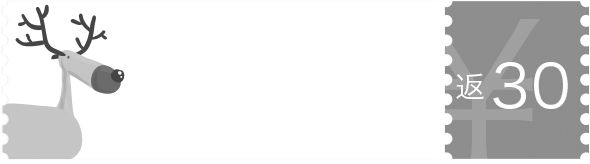
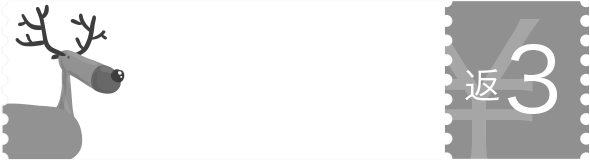
[restpro][coupon] xlmm coupon rmb200 then present 2 coupon of value is 50rmb

Changed region(s): [[0.0, 0.3049, 0.1831, 0.9756], [0.7627, 0.2439, 0.9763, 0.7012]]

diff --git a/shopmanager/flashsale/restpro/static/wap/js/tmyhquse.js b/shopmanager/flashsale/restpro/static/wap/js/tmyhquse.js
@@ -36,41 +36,50 @@ function Coupon_Nums_Show(nums) {
             location.href = "./choose-coupon.html";
         });
     }
-    else if (nums == 0) {// 没有优惠券　　点击　领取优惠券
-        $("#coupon_nums").text("可用优惠券（" + nums + "）");
+    // 用户创建自己的优惠券　　满三十　即可达到创建条件　关闭本功能　
+    //else if (nums == 0) {// 没有优惠券　　点击　领取优惠券
+    //    $("#coupon_nums").text("可用优惠券（" + nums + "）");
+    //    $("#coupon_value").text("点击领取");
+    //    $("#coupon_value").click(function () {
+    //        //　或者这里直接生成创建优惠券
+    //        //　判断页面的订单价格生成　对应的　优惠券　类型　价值
+    //        var coupon_type = 1;// 优惠券类型 这里可以根据页面　数据判断生成那种类型的优惠券
+    //        var requestUrl = GLConfig.baseApiUrl + GLConfig.create_user_pay_coupon; // 用户在支付页面创建自己的优惠券
+    //        //　１:满３０　减3  2:满３００减３０  3: 待定
+    //        var total_money = parseFloat($("#total_money").html().split(">")[2]);
+    //        if (total_money >= 30) {
+    //            console.log(total_money);
+    //
+    //            $.ajax({
+    //                type: 'post',
+    //                url: requestUrl,
+    //                data: {'csrfmiddlewaretoken': csrftoken, 'coupon_type': coupon_type},
+    //                dataType: 'json',
+    //                success: requestCallBack
+    //            });
+    //            function requestCallBack(res) {
+    //                console.log(res);
+    //                if(res[0]=='ok'){
+    //                location.href = "./choose-coupon.html";
+    //                }
+    //                else{
+    //                    console.log("用户创建优惠券失败！！！");
+    //                }
+    //            }
+    //        }
+    //        else{
+    //            drawToast("您的订单不满３０元哦~");
+    //        }
+    //    });
+    //}
+    else if (nums == 0) {
+        $("#coupon_nums").text("可用优惠券（" + 0 + "）");
         $("#coupon_value").text("点击领取");
         $("#coupon_value").click(function () {
-            //　或者这里直接生成创建优惠券
-            //　判断页面的订单价格生成　对应的　优惠券　类型　价值
-            var coupon_type = 1;// 优惠券类型 这里可以根据页面　数据判断生成那种类型的优惠券
-            var requestUrl = GLConfig.baseApiUrl + GLConfig.create_user_pay_coupon; // 用户在支付页面创建自己的优惠券
-            //　１:满３０　减3  2:满３００减３０  3: 待定
-            var total_money = parseFloat($("#total_money").html().split(">")[2]);
-            if (total_money >= 30) {
-                console.log(total_money);
-
-                $.ajax({
-                    type: 'post',
-                    url: requestUrl,
-                    data: {'csrfmiddlewaretoken': csrftoken, 'coupon_type': coupon_type},
-                    dataType: 'json',
-                    success: requestCallBack
-                });
-                function requestCallBack(res) {
-                    console.log(res);
-                    if(res[0]=='ok'){
-                    location.href = "./choose-coupon.html";
-                    }
-                    else{
-                        console.log("用户创建优惠券失败！！！");
-                    }
-                }
-            }
-            else{
-                drawToast("您的订单不满３０元哦~");
-            }
+            location.href = "./youhuiquan-kong.html"; //跳转到优惠券空页面
         });
     }
+
     else if(nums==-1){
         $("#coupon_nums").text("可用优惠券（" + 0 + "）");
         $("#coupon_value").text("点击领取");
@@ -118,6 +127,15 @@ function get_Coupon_On_Choose() {
                         var yhq_tree2 = Create_coupon_dom(yhq_obj);
                         $('.coupons').append(yhq_tree2);
                     }
+                    if (coupon_value == 50 && coupon_status == 3) {
+                        //满300返30
+                        yhq_obj.type = 5;
+                        yhq_obj.full = 300;
+                        yhq_obj.fan = 30;
+                        var yhq_tree3 = Create_coupon_dom(yhq_obj);
+                        $('.coupons').append(yhq_tree3);
+                    }
+
                     if(nums==0){
                         pop_info();
                     }
@@ -132,7 +150,12 @@ function get_Coupon_On_Choose() {
 }
 
 function Create_coupon_dom(obj) {
-    var html = $("#coupon-template").html();
+    if(obj.type==5){
+        var html = $("#coupon_template_xlmm_coupon").html();
+    }
+    else{
+        var html = $("#coupon-template").html();
+    }
     return hereDoc(html).template(obj)
 }
 
@@ -191,7 +214,13 @@ function get_Coupon_Value_Show_In_Buy() {
                     console.log("coupon value end :", val.coupon_value);
                     //将显示出来的数值填充到页面中
                     var coupon_value = val.coupon_value;
-                    $("#coupon_value").text("￥-" + coupon_value);
+                    var total_money = parseFloat($("#total_money").html().split(">")[2]);
+                    if (total_money >= 50 && val.coupon_type == 4) {// 大于50才能使用 并且优惠券类型是4
+                        $("#coupon_value").text("￥-" + coupon_value);
+                    }
+                    else if(total_money < 50 && val.coupon_type == 4){
+                        drawToast("商品金额小于50，优惠券不可用哦~");
+                    }
                 }
             });
         }

diff --git a/shopmanager/flashsale/restpro/static/wap/js/tmyhq.js b/shopmanager/flashsale/restpro/static/wap/js/tmyhq.js
@@ -8,14 +8,27 @@ function create_yhq_dom(obj) {
     var deadline= obj.deadline.split(' ');
     obj.deadline = deadline[0];
 
-    function yhq_dom() {
+    function yhq_dom56() {
         /*
          <li class="type{{ type }}">
-         <p class="name">全场任意商品满{{ full }}返{{ fan }}</p>
+         <p class="name">{{ full }}  </p>
          <p class="date">{{ created }} － {{ deadline }}</p>
          </li>
          */
     };
+    if (obj.type == 5 || obj.type == 6) {
+        return hereDoc(yhq_dom56).template(obj)
+    }
+    else {
+        function yhq_dom() {
+            /*
+             <li class="type{{ type }}">
+             <p class="name">全场任意商品满{{ full }}返{{ fan }}</p>
+             <p class="date">{{ created }} － {{ deadline }}</p>
+             </li>
+             */
+        };
+    }
     return hereDoc(yhq_dom).template(obj)
 }
 
@@ -53,18 +66,32 @@ $(document).ready(function () {
                 if (coupon_value == 30 && coupon_status == 2) {
                     //已经过期的优惠券 满30返3
                     yhq_obj.type = 3;
-                    yhq_obj.full = 300;
-                    yhq_obj.fan = 30;
+                    yhq_obj.full = 30;
+                    yhq_obj.fan = 3;
                     var yhq_tree3 = create_yhq_dom(yhq_obj);
                     $(".shixiao_list").append(yhq_tree3);
                 }
                 if (coupon_value == 3 && coupon_status == 2) {
                     //已经过期的优惠券
                     yhq_obj.type = 4;
-                    yhq_obj.full = 30;
-                    yhq_obj.fan = 3;
+                    yhq_obj.full = 300;
+                    yhq_obj.fan = 30;
                     var yhq_tree4 = create_yhq_dom(yhq_obj);
                     $(".shixiao_list").append(yhq_tree4);
+                }
+                if (coupon_value == 50 && coupon_status == 3) {
+                    yhq_obj.type = 5;
+                    yhq_obj.full = "代理专享";
+                    yhq_obj.fan = 50;
+                    var yhq_tree5 = create_yhq_dom(yhq_obj);
+                    $(".shixiao_list").append(yhq_tree5);
+                }
+                if (coupon_value == 50 && coupon_status == 2) {
+                    yhq_obj.type = 6;
+                    yhq_obj.full = "代理专享";
+                    yhq_obj.fan = 50;
+                    var yhq_tree6 = create_yhq_dom(yhq_obj);
+                    $(".shixiao_list").append(yhq_tree6);
                 }
             });
         }

diff --git a/shopmanager/flashsale/restpro/static/wap/pages/choose-coupon.html b/shopmanager/flashsale/restpro/static/wap/pages/choose-coupon.html
@@ -30,6 +30,15 @@
             </li>
         </ul>
     </script>
+        <script id="coupon_template_xlmm_coupon" type="text/html">
+        <ul class="coupons-list">
+            <li class="type{{ type }}">
+                <p class="name">代理专享</p>
+                <p class="date">{{ created }} - {{ deadline }}</p>
+                <i class="icon-radio" onclick="choose_Coupon({{ id }});"></i>
+            </li>
+        </ul>
+    </script>
 </div>
 
 <script src="//cdn.bootcss.com/jquery/2.1.4/jquery.min.js"></script>

diff --git a/shopmanager/flashsale/restpro/static/wap/css/youhuiquan.css b/shopmanager/flashsale/restpro/static/wap/css/youhuiquan.css
@@ -29,6 +29,12 @@
 .list li.type4{
   background: url(../images/youhuiquan4.png) no-repeat center center;
 }
+.list li.type5{
+  background: url(../images/youhuiquan5.png) no-repeat center center;
+}
+.list li.type6{
+  background: url(../images/youhuiquan6.png) no-repeat center center;
+}
 .list .name{
   font-size: 24px;
   width: 275px;

diff --git a/shopmanager/flashsale/restpro/static/wap/css/queren-dd.css b/shopmanager/flashsale/restpro/static/wap/css/queren-dd.css
@@ -150,6 +150,9 @@
 .coupons-list li.type3{
   background: url(../images/youhuiquan3.png) no-repeat center center;
 }
+.coupons-list li.type5{
+  background: url(../images/youhuiquan5.png) no-repeat center center;
+}
 .coupons-list .name{
   font-size: 24px;
   width: 275px;

diff --git a/shopmanager/flashsale/pay/views_coupon.py b/shopmanager/flashsale/pay/views_coupon.py
@@ -6,6 +6,7 @@ from django.shortcuts import render_to_response
 import json
 from models_coupon import IntegralLog, Integral, Coupon, CouponPool
 import datetime
+from django.db.models.signals import post_save
 
 
 class CouponPoolView(View):
@@ -112,3 +113,51 @@ def Coupon_Check(request):
             return HttpResponse("not_found")
     else:
         return HttpResponse('no_is_null')
+
+
+from models import SaleOrder
+from flashsale.xiaolumm.models import XiaoluMama
+from flashsale.pay.models_user import Customer
+from models_refund import SaleRefund
+XLMM_COUPON_50_RELEASE_TIME = datetime.datetime(2015, 8, 19, 0, 0, 0)
+
+
+def xlmm_Coupon_Release(sender, instance, created, **kwargs):
+    # buyer_id
+    # 判断　用户是不是　小鹿代理
+    print 'xlmm coupon release is runnning  ,,..'
+    today = datetime.datetime.today()
+    if today >= XLMM_COUPON_50_RELEASE_TIME and instance.outer_id == 'RMB200'\
+            and instance.refund_status == SaleRefund.NO_REFUND and instance.payment == 200 \
+            and instance.status == SaleOrder.TRADE_FINISHED:
+        # 执行时间大于开始时间　外部编码为RMB200 没有退款　　且交易成功 实付款为２００
+        buyer_id = instance.sale_trade.buyer_id
+        customer = Customer.objects.get(id=buyer_id)
+        mobile = customer.mobile or ''
+        unionid = customer.unionid or ''
+        trade_id = instance.sale_trade.id
+        try:
+            xlmm = XiaoluMama.objects.get(openid=unionid)
+        except XiaoluMama.DoesNotExist:
+            return
+        print 'xlmm get is ok ,,,,,,'
+        if xlmm and xlmm.agencylevel == 2 and xlmm.charge_status == XiaoluMama.CHARGED:
+            # 代理级别为２　并且已经接管的
+            # 生成优惠券（仅仅生成一次　get try except）
+            print 'mama status is righe .....'
+            coupon = Coupon.objects.filter(coupon_user=buyer_id)
+            if coupon.exists():  # 此人曾经有优惠券 去过滤　是否存在ＲＭＢ２００的优惠券　存在就不发放
+                for c in coupon:
+                    cou_p = CouponPool.objects.filter(coupon_no=c.coupon_no, coupon_type=CouponPool.LIM200)
+                    if cou_p.exists():  # 如果存在　则不发放
+                        return
+                    for i in range(2):
+                        cou = Coupon()
+                        cou.lmi200_Xlmm_Coupon(buyer_id, trade_id, mobile)
+                        print 'every is 11111done ------'
+            else:   # 以前没有过优惠券　则直接生成优惠券
+                for i in range(2):
+                        cou = Coupon()
+                        cou.lmi200_Xlmm_Coupon(buyer_id, trade_id, mobile)
+                        print 'every is 222222done ------'
+post_save.connect(xlmm_Coupon_Release, sender=SaleOrder)

diff --git a/shopmanager/flashsale/pay/models_coupon.py b/shopmanager/flashsale/pay/models_coupon.py
@@ -115,6 +115,22 @@ class Coupon(models.Model):
             self.save()
         return "%s" % (self.id)
 
+    def lmi200_Xlmm_Coupon(self, buyer_id, trade_id, mobile):
+        """
+        功能：　代理充值　满200送 2张50的
+        参数：　buyer_id　卖家的用户ＩＤ
+        """
+        print 'coupon self is running ......'
+        deadline = datetime.datetime.today() + datetime.timedelta(days=60)  # 60天有效
+        cou = CouponPool.objects.create(coupon_value=50, deadline=deadline,
+                                        coupon_type=CouponPool.LIM200, coupon_status=CouponPool.PULLED)  # 生成优惠券 # 可以使用的 # 有效两天
+        self.coupon_no = cou.coupon_no
+        self.coupon_user = buyer_id
+        self.trade_id = trade_id
+        self.mobile = mobile
+        self.save()
+        return
+
 
 class CouponPool(models.Model):
     """
@@ -126,10 +142,11 @@ class CouponPool(models.Model):
     PULLED = 3
     USED = 4
     COUPON_STATUS = ((RELEASE, u'已发放'), (UNRELEASE, u'未发放'), (PAST, u'过期作废'), (PULLED, u'可以使用'), (USED, u'已经使用'))
-    LIM10 = 1
-    LIM50 = 2
+    LIM30 = 1
+    LIM300 = 2
     LIM100 = 3
-    CO_TYPE = ((LIM10, u"满30减3"), (LIM50, u"满300减30"), (LIM100, u"满（待定）"))
+    LIM200 = 4
+    CO_TYPE = ((LIM30, u"满30减3"), (LIM300, u"满300减30"), (LIM200, u"充200送100"))
 
     coupon_no = models.CharField(max_length=40, unique=True, default=lambda: uniqid(
         '%s%s' % ('YH', datetime.datetime.now().strftime('%y%m%d'))), verbose_name=u"优惠券号码")
